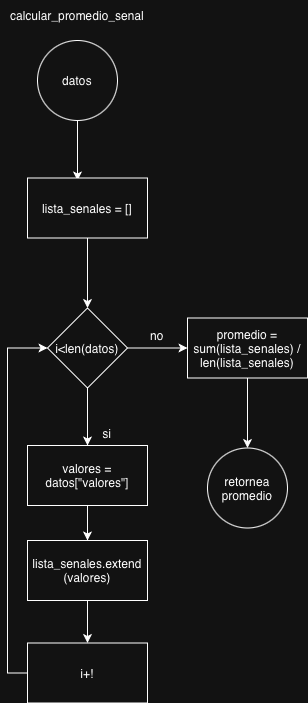
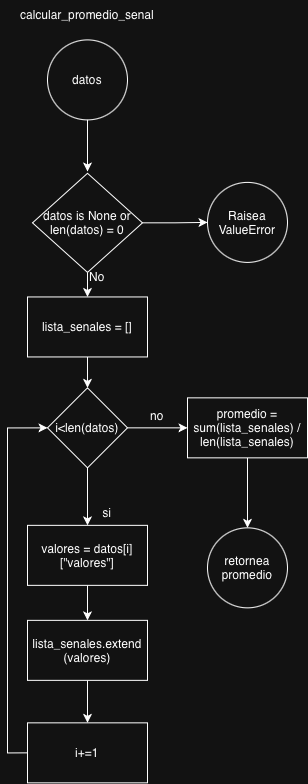
fix: changes to diagrams

diff --git a/main.py b/main.py
@@ -3,7 +3,6 @@ from src.metricas import calcular_fc_desde_datos, calcular_maximo_senal, calcula
 from src.procesamiento_datos import filtrar_por_participante
 
 ruta = './datos/PulseLab_mock_data.csv'
-i_d = 1
 
 datos = cargar_datos(ruta)
 
@@ -16,15 +15,11 @@ print(f'El promedio de la senal es: {promedio}')
 print(f'La frequencia cardiaca promedio es de {fc}Hz')
 print(f'El maximo de la señal es de {senal_max} y el minimo es de {senal_min}')
 
-try:
-    participante = filtrar_por_participante(datos, i_d)
-except Exception as e:
-    print(e)
-else:
-    print(f'Se encontro a un participante con el id {participante["id"]}')
-    fc_participante = calcular_fc_desde_datos([participante])
-    promedio_participante = calcular_promedio_senal([participante])
-    max_participante = calcular_maximo_senal([participante])
-    min_participante = calcular_minimo_senal([participante])
-    amplitud_participante = calcular_amplitud_senal(max_participante, min_participante)
-    print(f'\n| El promedio del participante {participante["id"]} es de {promedio_participante}\n| Su maximo es de {max_participante}\n| Su minimo es de {min_participante}\n| Su amplitud es de {amplitud_participante}\n| Su frequencia es de {fc_participante}Hz')
+participante = filtrar_por_participante(datos)
+print(f'Se encontro a un participante con el id {participante["id"]}')
+fc_participante = calcular_fc_desde_datos([participante])
+promedio_participante = calcular_promedio_senal([participante])
+max_participante = calcular_maximo_senal([participante])
+min_participante = calcular_minimo_senal([participante])
+amplitud_participante = calcular_amplitud_senal(max_participante, min_participante)
+print(f'\n| El promedio del participante {participante["id"]} es de {promedio_participante}\n| Su maximo es de {max_participante}\n| Su minimo es de {min_participante}\n| Su amplitud es de {amplitud_participante}\n| Su frequencia es de {fc_participante}Hz')

diff --git a/src/validacion_datos.py b/src/validacion_datos.py
@@ -51,9 +51,9 @@ def validar_dato(dato, i):
         return None
 """
 
-def validar_linea(linea:list) ->list: 
-    '''
-    Valida una línea recibida y castea a diferentes tipos de datos si es posible
+def validar_linea(linea:list) ->list:
+    """
+    Válida una línea recibida y castea a diferentes tipos de datos si es posible
     Los datos se encuentran ordenados por posición, lo que vuelve posible
     el castearlos según la posición en la que se encuentren.
 
@@ -66,11 +66,12 @@ def validar_linea(linea:list) ->list:
     -------
     linea : list
         Linea con los datos correspondientes casteados
-        
+
     Raises
     ------
-        Value Error si el casteo no puede llevarse a cabo
-    '''
+        ValueError si el casteo no puede llevarse a cabo
+    """
+    dato = None
     try:
         dato = "id"
         linea[0] = int(linea[0])
@@ -86,11 +87,23 @@ def validar_linea(linea:list) ->list:
         linea[5] = bool(linea[5])
         
     except ValueError:
-        raise(f"Error en {dato} - Se detectó en validacion_linea")
+        raise ValueError(f"Error en {dato} - Se detectó en validacion_linea")
         
     return linea
 
-
-    
-    
-
+def pedir_id():
+    """
+    Pide al usuario por consola un id que debe ser un numero entero positivo.
+    :raises: ValueError si el numero ingresado es negativo o si no es un numero
+    :return: id de participante valido
+    """
+    while True:
+        try:
+            i_d = int(input("Ingrese el id del participante: "))
+            if i_d < 0:
+                print('Error, el id del participante no puede ser negativo')
+                continue
+            else:
+                return i_d
+        except ValueError:
+            print('Error, el id del participante debe ser un numero')

diff --git a/src/procesamiento_datos.py b/src/procesamiento_datos.py
@@ -1,26 +1,24 @@
-def filtrar_por_participante(datos: list, id_participante: int) -> dict:
+from validacion_datos import pedir_id
+
+def filtrar_por_participante(datos: list) -> dict:
     """
-    Recibe una lista con registros de participantes y un id que se desea buscar; filtra al participante cuyo id sea igual al recibido
+    Recibe una lista con registros de participantes en donde se desea buscar; filtra al participante cuyo id sea igual al ingresado por consola
 
     Parameters
     ----------
     datos : list
-        Lista de registros
-    id_participante : int
-        Id de participante solicitado
-
+        Lista de registros en donde buscar el participante
     Raises
     ------
     Exception
         No hay participante con ese id ingresado
-
     Returns
     -------
     dict
-        Registro del participante buscado 
-
+        Registro del participante buscado
     """
     i=0
+    id_participante = pedir_id()
     while i <len(datos): 
         
         if datos[i]["id"] == id_participante:
@@ -28,5 +26,5 @@ def filtrar_por_participante(datos: list, id_participante: int) -> dict:
         else:
             i += 1
     
-    raise Exception("No se encontro participante alguno con el id ingresado - Se detectó en filtrar_por_participante")
+    raise Exception("No se encontró participante alguno con el id ingresado - Se detectó en filtrar_por_participante")
 

diff --git a/src/metricas.py b/src/metricas.py
@@ -55,10 +55,12 @@ def calcular_promedio_senal(datos: list) -> float:
         Promedio de señales totales
 
     '''
-    
+    if datos is None or len(datos) == 0:
+        raise ValueError("No hay datos de los participantes")
+
     lista_senales = []
     i = 0
-    
+
     while i < len(datos):
         
         valores = datos[i]["valor"]
